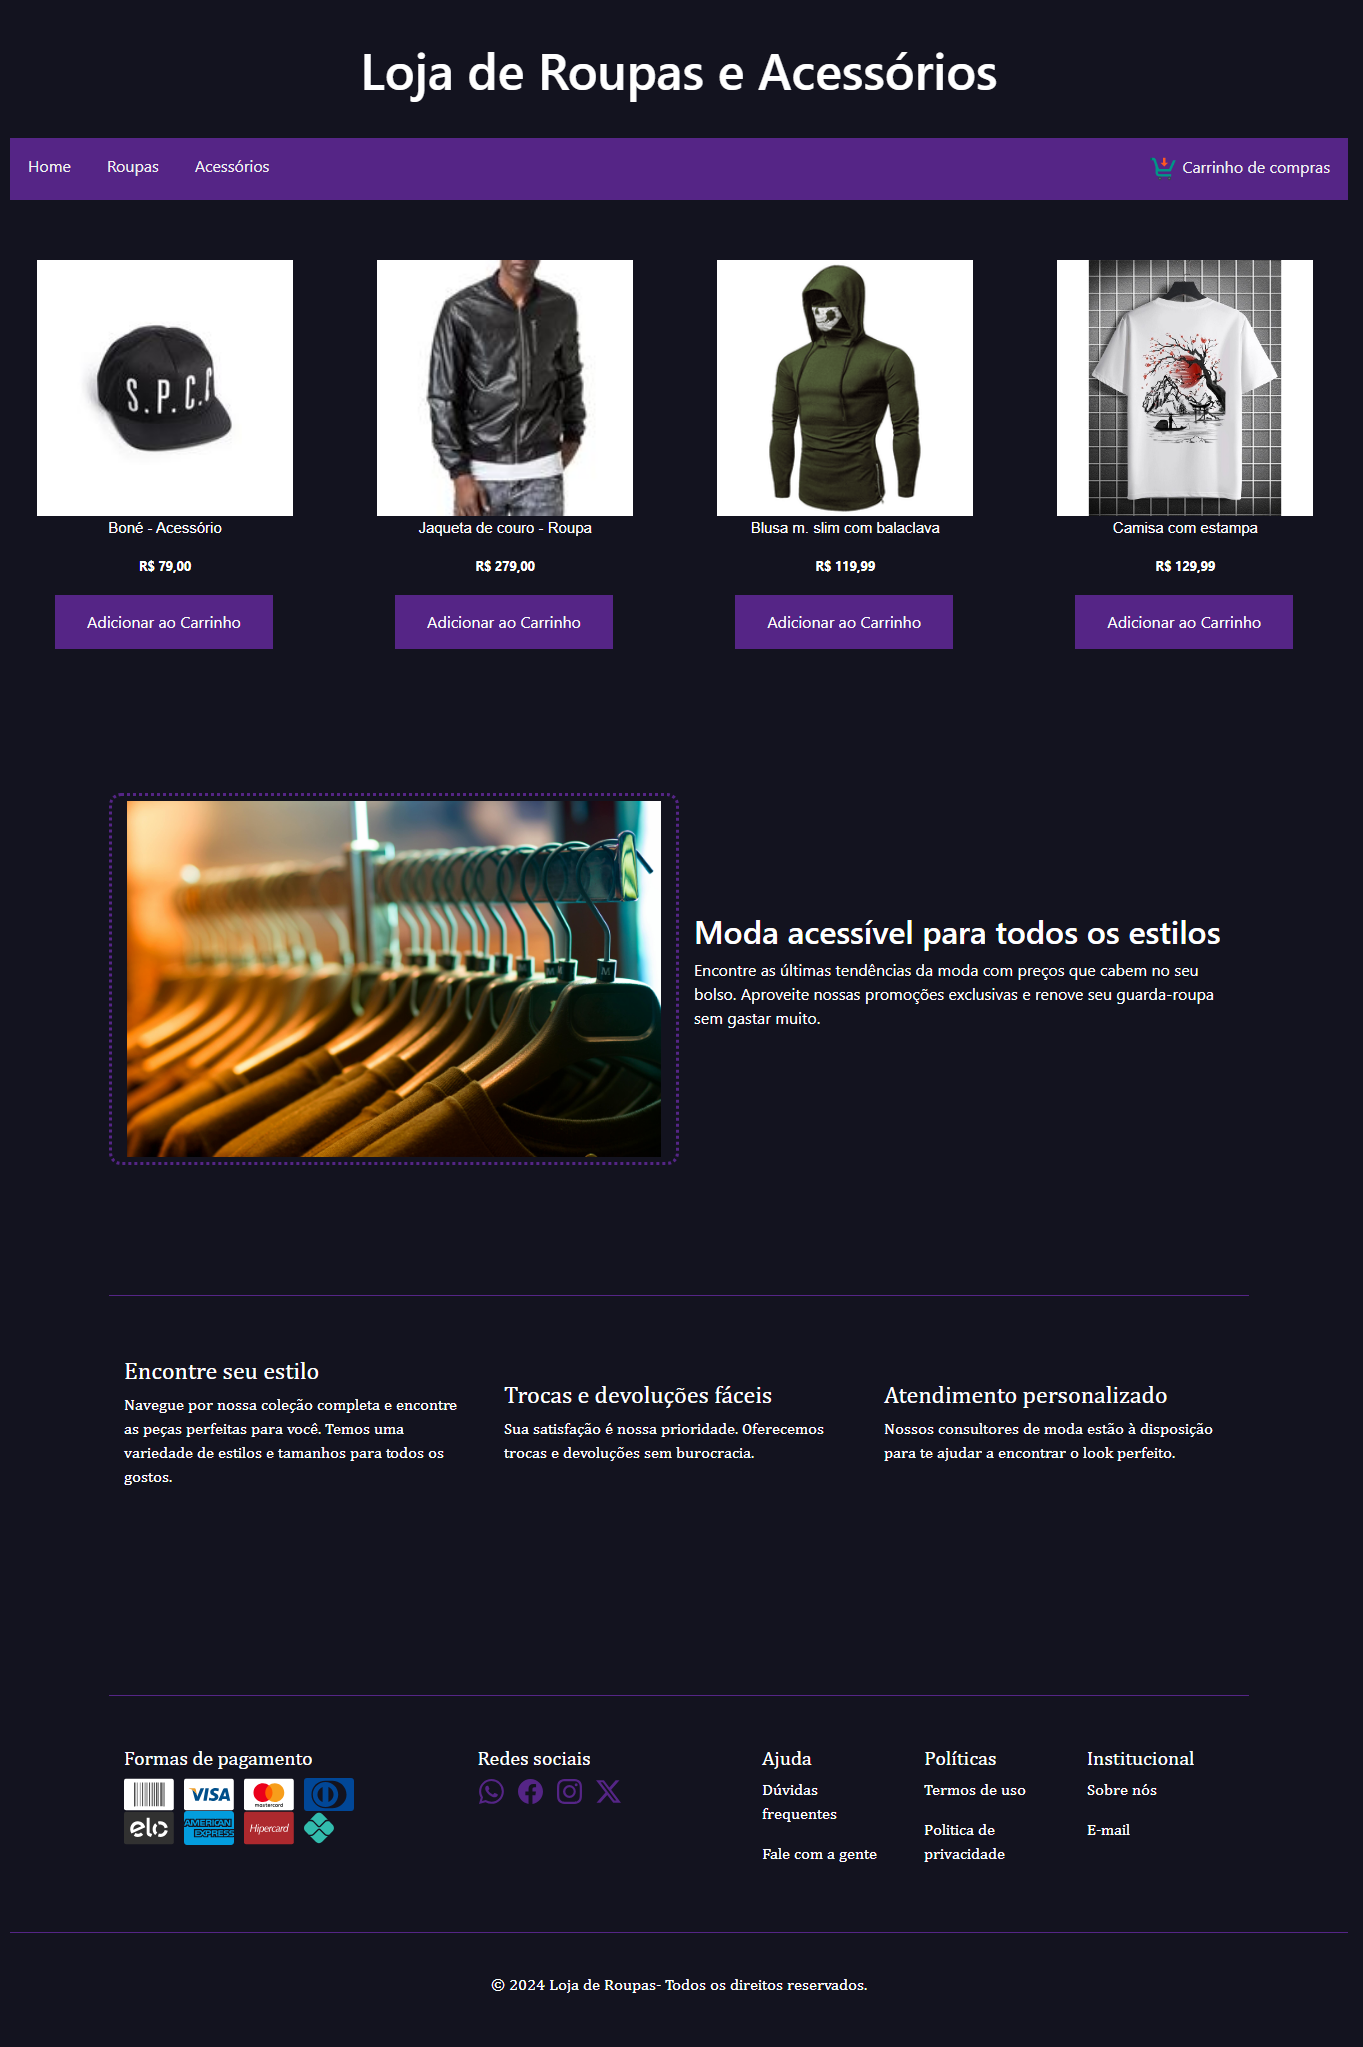
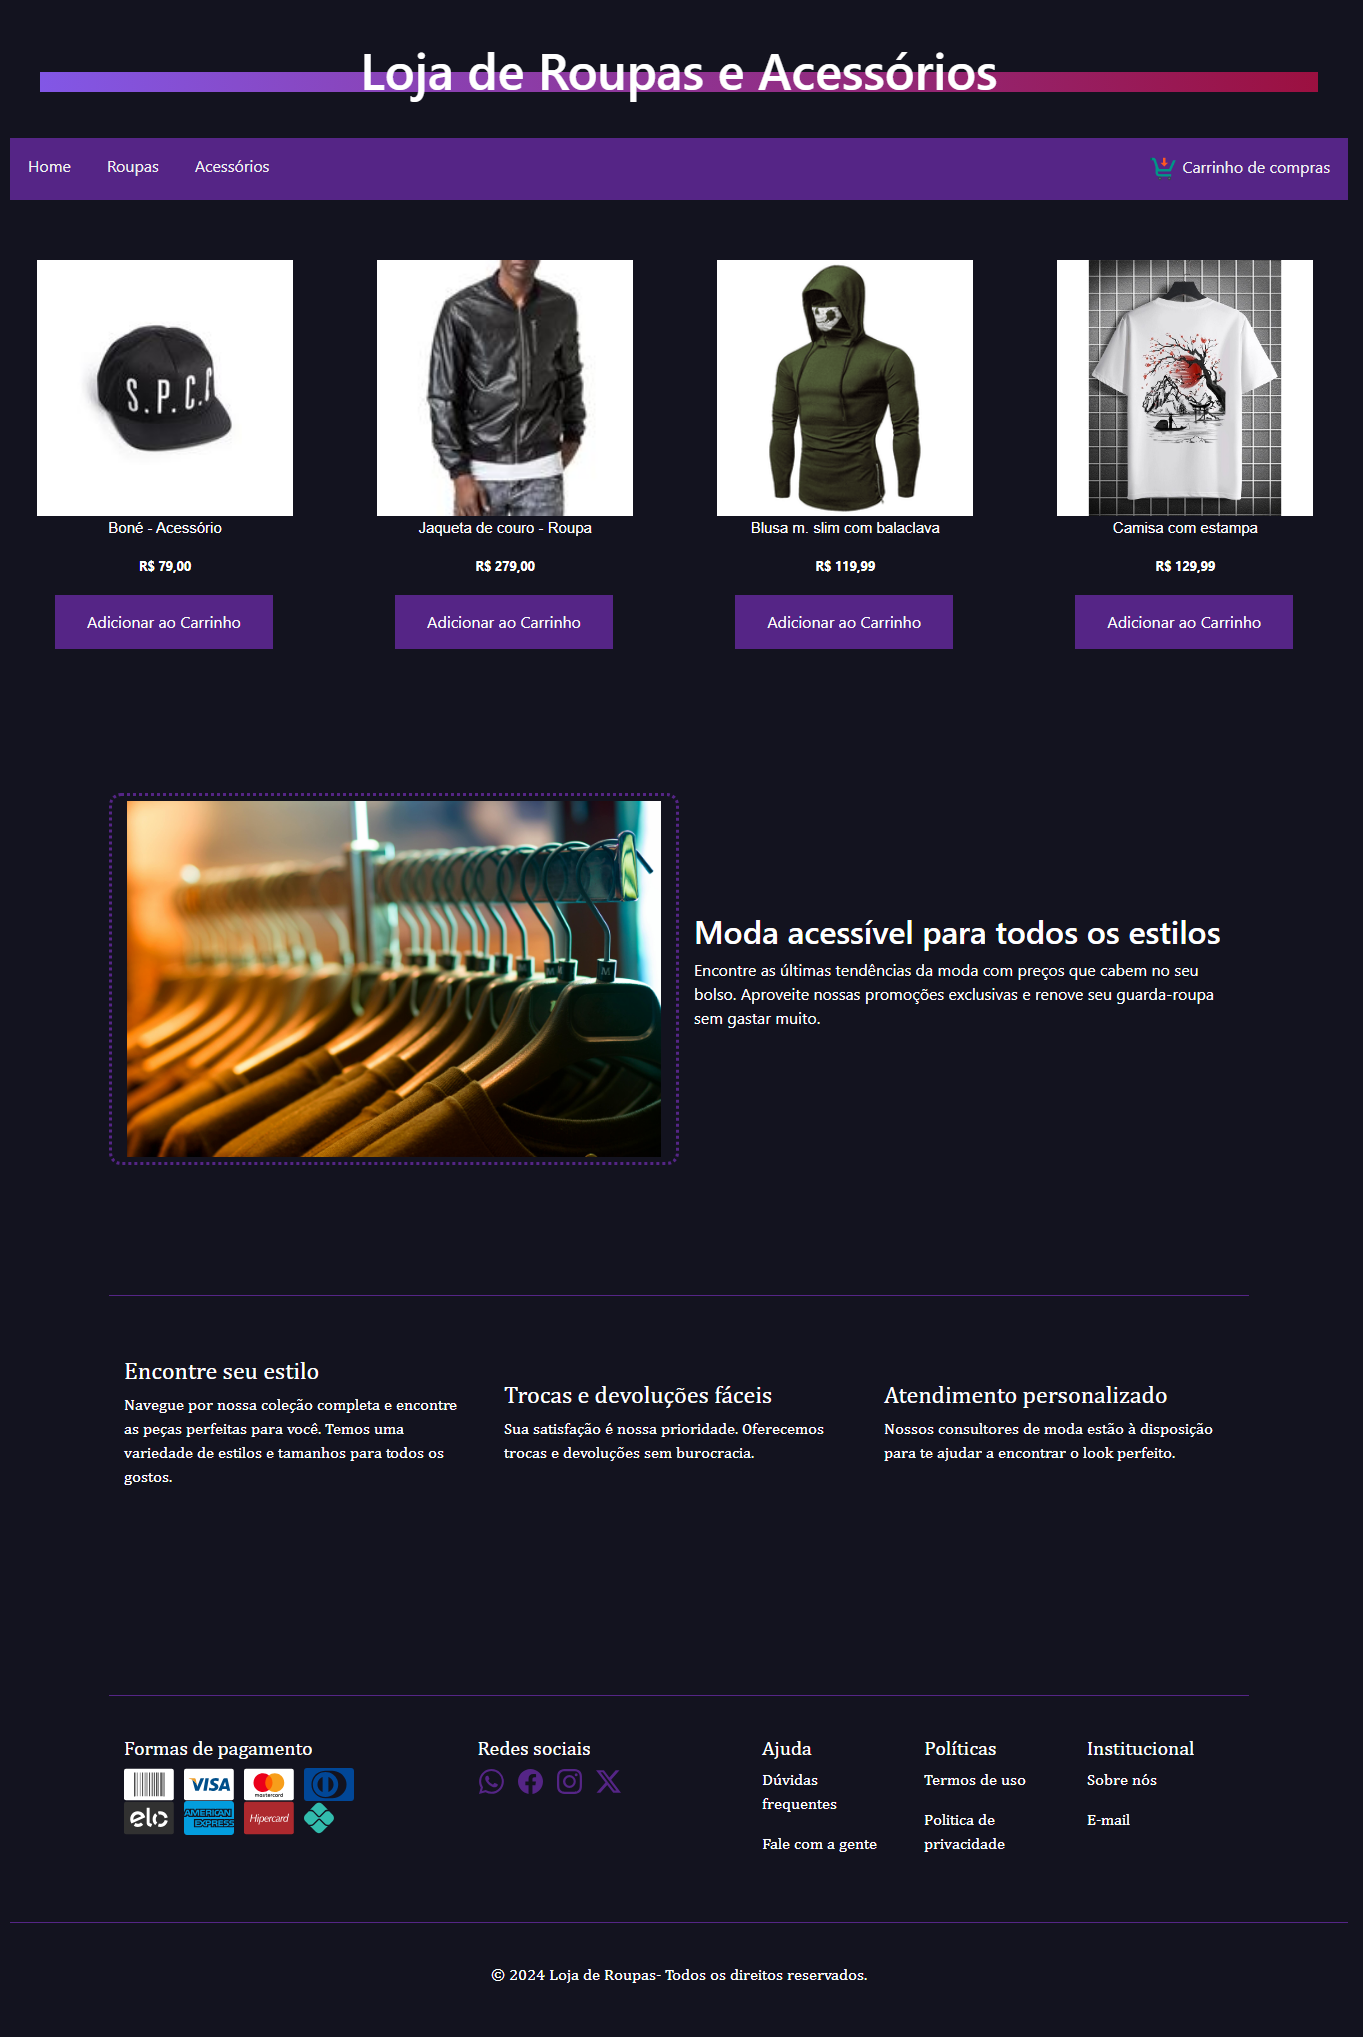
Concluído

diff --git a/css/folha.css b/css/folha.css
@@ -132,16 +132,17 @@ body {
 
 #info {
     border-top: solid 1px #552586;
-    padding-top: 50px;
+    padding-top: 40px;
     padding-bottom: 50px;
 }
 
-@media (max-width: 400px) {
+@media (max-width: 500px) {
  
     #info {
         display: flex;
        flex-direction: column-reverse;
        align-items: start;
+
     }
 
     #ajuda{
@@ -149,6 +150,7 @@ body {
         flex-direction: column;
         justify-content: center;
         align-items: center;
+		padding-top: 50px;
 		
     }
 }
@@ -164,6 +166,7 @@ a.link-texto:hover {
 	transition: color 0.3s ease-in-out;
 	text-decoration: none; /* Remove o sublinhado */
 }
+
 /*------------------------------------------------------------------*/
 .sellcard { float: left;width: 23.40%; margin: 10px; }
 .sellcard img { width: 80%; display: block; margin-left: auto; margin-right: auto; margin-top: 50px; }
@@ -210,6 +213,40 @@ a.link-texto:hover {
 	background-color: #b170f6; /*altera a cor do hover do menu*/
 	color: black;
 }
+
+@media (max-width: 768px) {
+
+	.button {
+	  margin-left: 90px;
+	}
+  
+  }
+/* Botão de scroll página */
+.scroll-bar::-webkit-scrollbar {
+    width: 14px;
+  }
+  
+.scroll-bar::-webkit-scrollbar-thumb {
+    background: #8257E6;
+    border-radius: 0px;
+    border:0px solid #8257E6;
+  }
+/* Estilos para Firefox */
+* {
+    scrollbar-width: thin;
+    scrollbar-color: #8257E6 black;
+  }
+  
+.efeito_text {
+	background-image: linear-gradient(80deg, #8257E6,#9c1040 100%); 
+	background-repeat: no-repeat; 
+	background-size: 100% 0.4em; 
+	background-position: 0 80%;
+}
+
+
+    
+
 /*--------------------------footer------------------------------*/
 
 footer {
@@ -231,4 +268,11 @@ footer {
 	color: white;
 	font-family: Cambria, Cochin, Georgia, Times, 'Times New Roman', serif;
 }
+/* @media (max-width: 500px) {
+
+	#ajuda {
+	  padding-top: 20px;
+	}
+  
+  } */
 /*--------------------------footer------------------------------*/

diff --git a/index.html b/index.html
@@ -18,7 +18,7 @@
 <body>
 <section>
 	<div class="header">
-		<h1>Loja de Roupas e Acessórios</h1>
+		<h1 class="efeito_text">Loja de Roupas e Acessórios</h1>
 	  </div>
 	  
 	  <div class="topnav">

diff --git a/readme.md b/readme.md
@@ -53,7 +53,7 @@ O Projeto é de um site de Loja de Roupas, o projeto é para fins de praticar du
 
 ## 🖥 Deploy do projeto
 
-Confira [aqui.](https://loja-de-roupas-umber.vercel.app)
+Confira [aqui.](https://loja-de-roupas-umber.vercel.app/)
 
 ## 🤝🏼 Contribuindo
 
